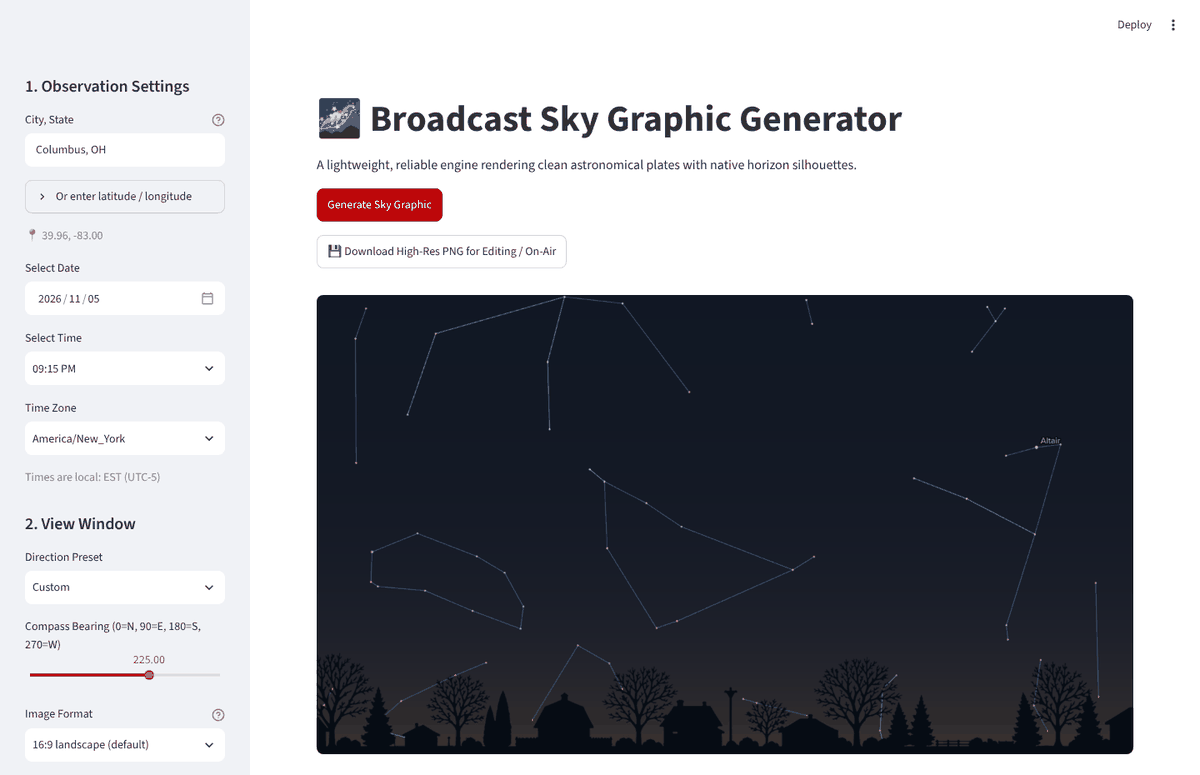
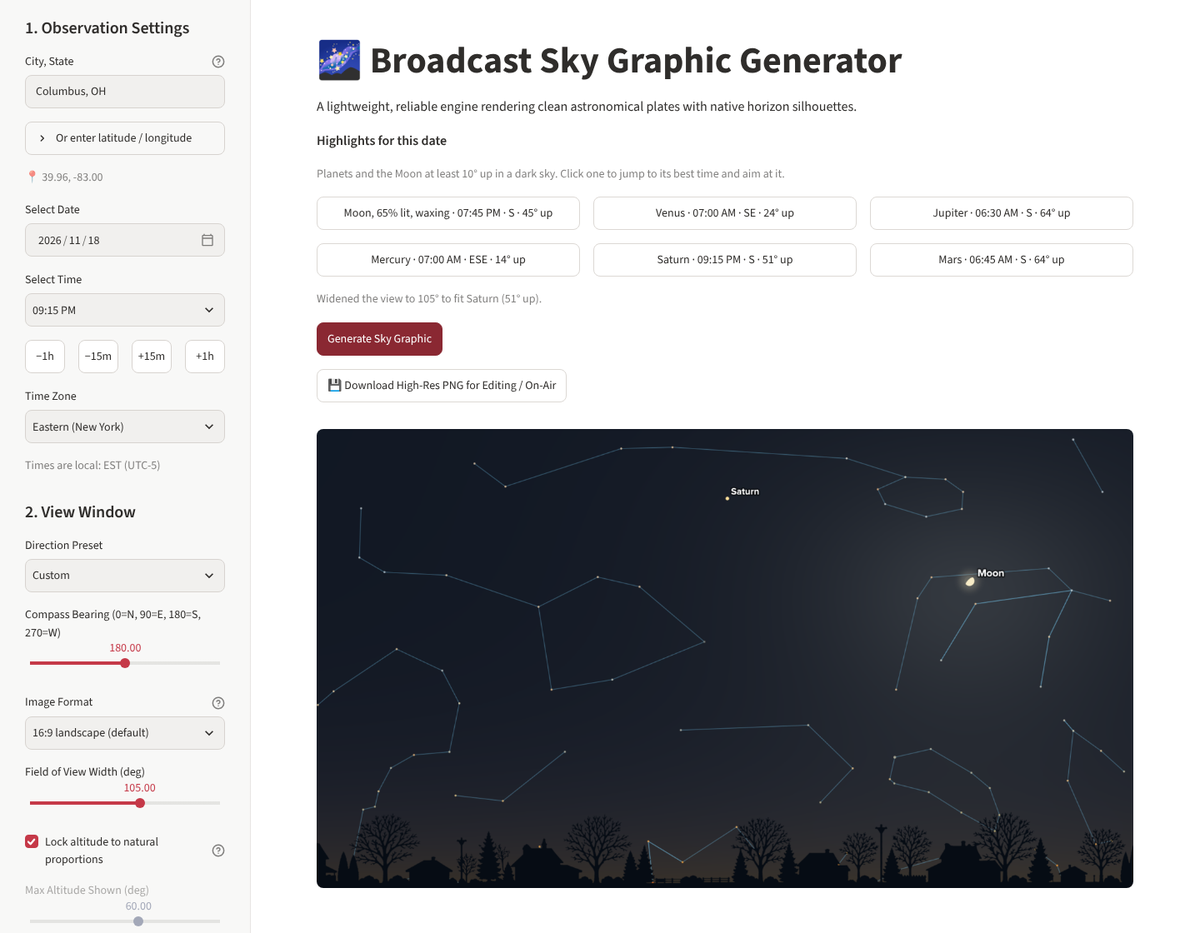
Astrographics tab: time-step buttons and "Highlights for this date"
Describes the -1h/-15m/+15m/+1h buttons and the suggested views (planets
and Moon at least 10 degrees up, click to set time and aim), adds the
altitude lock, corrects the field-of-view range (30-160), and replaces the
main screenshot with one from the current app.

Claude-Session: https://claude.ai/code/session_016pS5E4S9xH4jjAaWseSpug

diff --git a/content/app-astrographics.md b/content/app-astrographics.md
@@ -7,14 +7,15 @@
 
 Astrographics draws the night sky for any place and time: stars, constellations, planets and the Moon, in front of a silhouette of the horizon. You set where, when and which way to look, and it returns a clean, transparent-friendly image to bring into Max or post to social media.
 
-![Astrographics after clicking Generate: the controls on the left, the finished sky graphic on the right](images/astrographics-app.png)
-*The app after a first run: Columbus at 9:15 PM, looking southwest, with a suburban horizon.*
+![Astrographics after clicking a highlight and Generate: the controls on the left, the highlights above the finished sky graphic](images/astrographics-app.png)
+*Columbus at 9:15 PM after clicking the Saturn highlight (the app turned the view south and widened it to 105 degrees) and then Generate, with a suburban horizon.*
 
 ### What it can do
 
 - **Any place.** Type a city and state, or enter a latitude and longitude. The time zone and the local time follow.
-- **Any date and time.** The sky is computed for the moment you pick, including the planets, the Moon and its phase. Refraction near the horizon is included.
-- **Which way to look.** Pick North, Northeast and so on, or set an exact compass bearing. The field of view (30 to 180 degrees) and the maximum altitude shown are adjustable.
+- **Any date and time.** The sky is computed for the moment you pick, including the planets, the Moon and its phase. Refraction near the horizon is included. Under the time box, **-1h**, **-15m**, **+15m** and **+1h** buttons step the time without opening the menu, handy for watching a planet rise or the Moon move.
+- **Highlights for this date.** At the top of the page the app suggests views: the planets and the Moon that are at least 10 degrees up in a dark sky on the date you chose. Each button shows the object (the Moon also shows its phase), its best time, the direction and how high it is, for example "Saturn - 09:15 PM - S - 51 degrees up". Click one and the app sets the time to that best time and turns the view toward the object. If the object is high in the sky it also widens the field of view and the maximum altitude so it fits, and says so under the buttons. Then click **Generate Sky Graphic**. You can still change anything afterward.
+- **Which way to look.** Pick North, Northeast and so on, or set an exact compass bearing. The field of view (30 to 160 degrees) and the maximum altitude shown (20 to 90) are adjustable. **Lock altitude to natural proportions** (on by default) sets the maximum altitude from the field of view for you; untick it to set it yourself.
 - **A horizon that fits the place.** Urban, suburban and rural horizon silhouettes are included, and the horizon follows the **Star Visibility Limit** setting: 1.5 or lower shows the urban skyline, 2.0 to 3.0 a suburban neighborhood, and anything darker the rural country horizon. Tree foliage can follow the season automatically, or be set to leaves or bare.
 - **Sky conditions.** Atmospheric haze and a star visibility limit are suggested from your location (a city sky shows fewer stars than a rural one). Both stay adjustable.
 - **Clouds.** Off by default so astronomy graphics stay clear. In Forecast mode it draws the low, mid and high cloud cover from a forecast model (best match, HRRR, GFS or ECMWF) and lets you nudge each layer; Manual lets you set the percentages yourself.
@@ -26,7 +27,8 @@ Astrographics draws the night sky for any place and time: stars, constellations,
 ### How to use it
 
 1. Open the app (button at the top of this tab).
-2. Under **1. Observation Settings**, enter the city or coordinates, then the date, time and time zone.
+2. Under **1. Observation Settings**, enter the city or coordinates, then the date, time and time zone. Use the **-1h / -15m / +15m / +1h** buttons to nudge the time.
+   *Shortcut:* look at **Highlights for this date** at the top of the page and click an object you want to feature. It sets the time and aims the view for you, so you can skip to checking the sky conditions (step 4) and generating (step 6).
 3. Under **2. View Window**, choose a direction and an image format. Adjust the field of view if you want more or less sky.
 4. Under **3. Sky Conditions**, check the haze and star settings, the tree foliage, and whether you want clouds. The app starts the star setting from your location (a big city starts at the urban skyline); set the **Star Visibility Limit** to 2.5 for a typical suburban horizon, as in the pictures here.
 5. Under **4. Labels & Overlays**, choose what to label.
